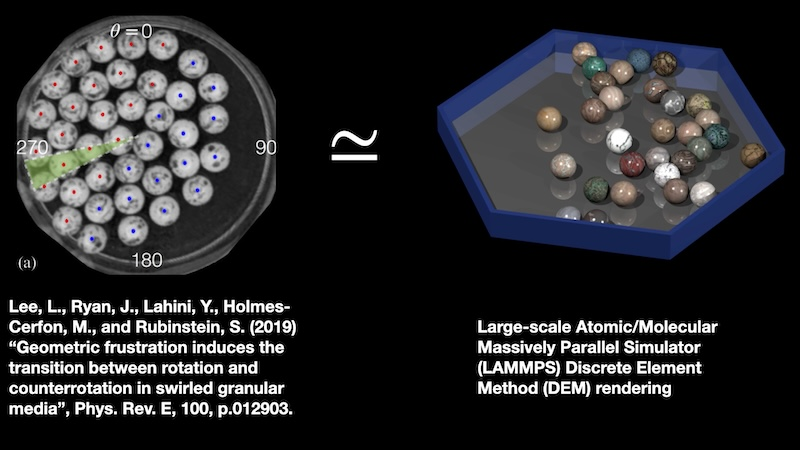
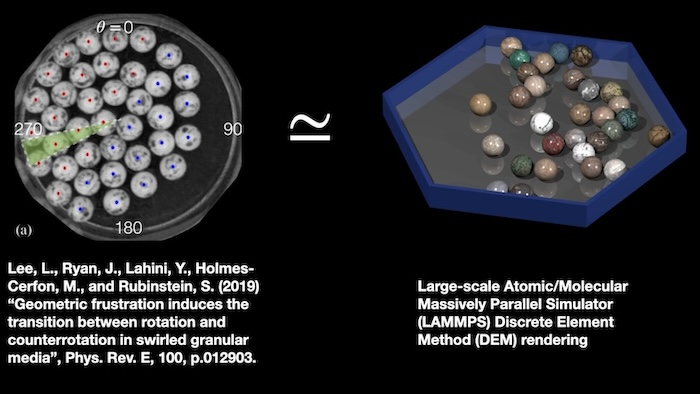
resized, hopefully last time

diff --git a/index.html b/index.html
@@ -106,12 +106,12 @@
             <h2>Topics</h2>
               <h3>Digital Twins</h3>
               <img
-              srcset="./images/beads_small.jpeg 400w,
-                      ./images/beads_medium.jpeg 600w,
-                      ./images/beads_large.jpeg 800w"
-              sizes="(max-width: 710px) 400px,
-                     (max-width: 991px) 600px,
-                     800px"
+              srcset="./images/beads_small.jpeg 300w,
+                      ./images/beads_medium.jpeg 500w,
+                      ./images/beads_large.jpeg 700w"
+              sizes="(max-width: 710px) 300px,
+                     (max-width: 991px) 500px,
+                     700px"
               src="/images/beads_medium.jpeg"
               alt="some beads" />
 
